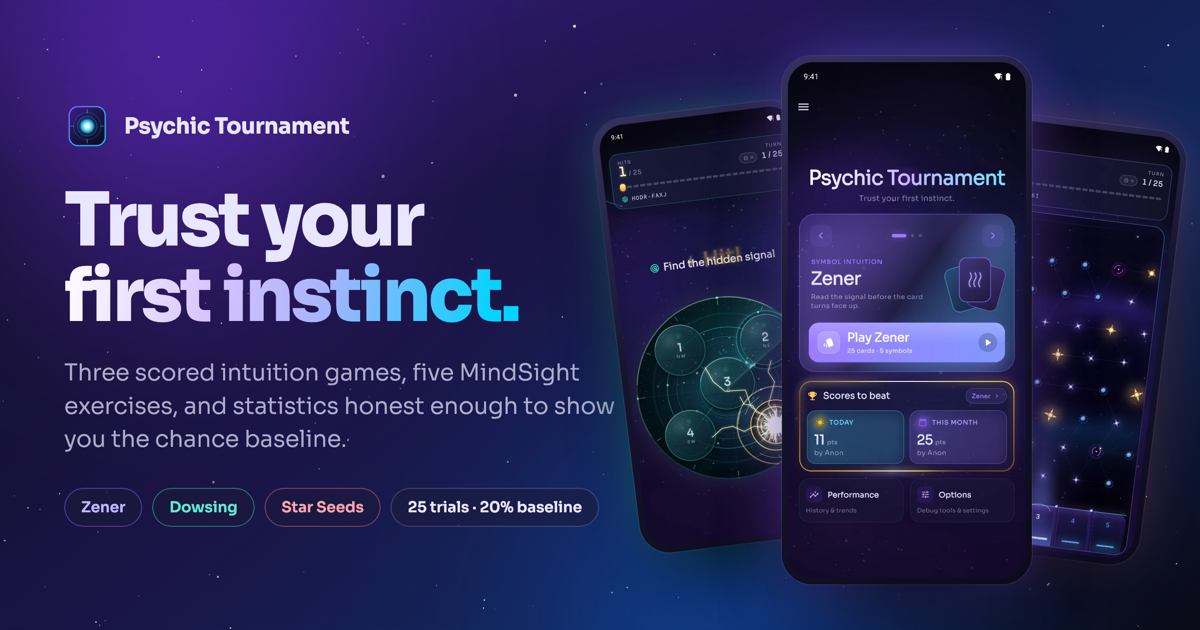
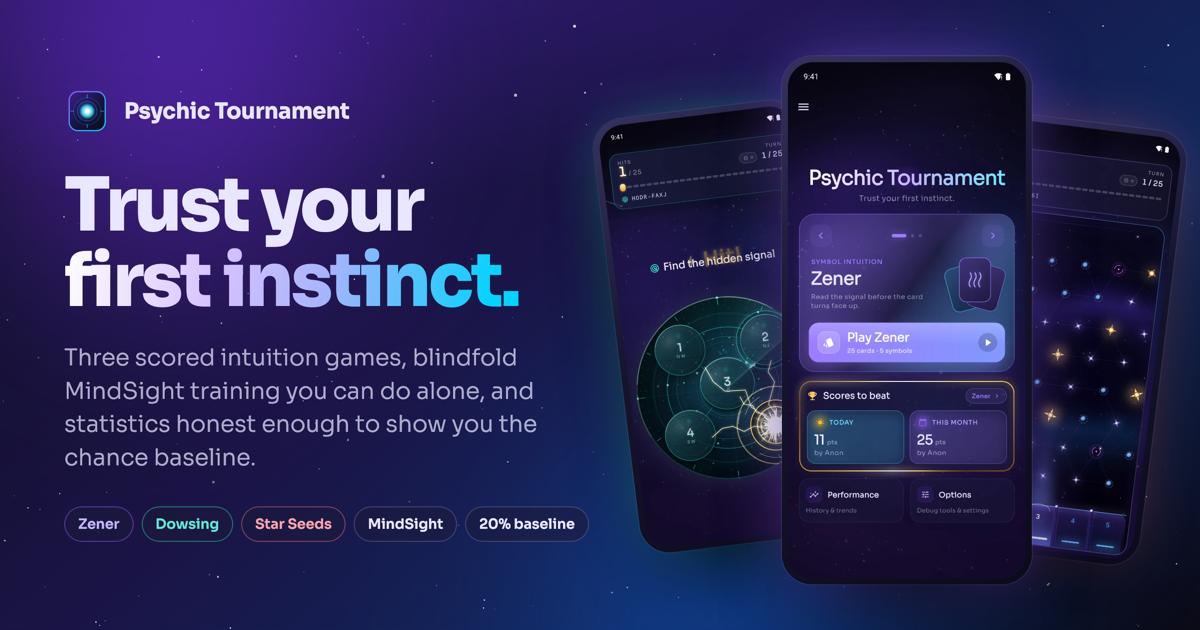
more on mindsight

diff --git a/index.html b/index.html
@@ -6,7 +6,7 @@
     <title>Psychic Tournament — Train your intuition. Trust your first instinct.</title>
     <meta
       name="description"
-      content="Three scored intuition games, five MindSight exercises, and statistics honest enough to tell you when you're only matching chance. A beautifully crafted, offline-first trainer for Android and iOS."
+      content="Three scored intuition games, blindfold MindSight training you can do alone, and statistics honest enough to tell you when you're only matching chance. A beautifully crafted, offline-first trainer for Android and iOS."
     />
     <meta name="theme-color" content="#0E0B1F" />
     <meta name="color-scheme" content="dark" />
@@ -20,7 +20,7 @@
     <meta property="og:title" content="Psychic Tournament — Trust your first instinct." />
     <meta
       property="og:description"
-      content="Three scored intuition games, five MindSight exercises, and statistics honest enough to tell you when you're only matching chance."
+      content="Three scored intuition games, blindfold MindSight training you can do alone, and statistics honest enough to tell you when you're only matching chance."
     />
     <meta property="og:image" content="https://psychictournament.online/imgs/og-cover.png" />
     <meta property="og:image:width" content="1200" />
@@ -29,7 +29,7 @@
     <meta name="twitter:title" content="Psychic Tournament — Trust your first instinct." />
     <meta
       name="twitter:description"
-      content="Three scored intuition games, five MindSight exercises, and statistics that show you the chance baseline."
+      content="Three scored intuition games, blindfold MindSight training you can do alone, and statistics that show you the chance baseline."
     />
     <meta name="twitter:image" content="https://psychictournament.online/imgs/og-cover.png" />
 
@@ -60,7 +60,7 @@
         "applicationCategory": "GameApplication",
         "operatingSystem": "Android, iOS",
         "url": "https://psychictournament.online/",
-        "description": "Three scored intuition games, five MindSight exercises, and local statistics measured against a 20% chance baseline.",
+        "description": "Three scored intuition games, blindfold MindSight training, and local statistics measured against a 20% chance baseline.",
         "author": { "@type": "Organization", "name": "OverNineThousand" },
         "offers": { "@type": "Offer", "price": "0", "priceCurrency": "USD" }
       }
@@ -125,7 +125,7 @@
           <div class="reveal">
             <span class="hero__tag">
               <b>v1.0</b>
-              Three games · Five MindSight exercises · Global boards
+              Three games · MindSight training · Global boards
             </span>
 
             <h1>
@@ -506,11 +506,12 @@
         <div class="shell">
           <div class="section-head section-head--center reveal">
             <span class="eyebrow">MindSight</span>
-            <h2>Training, <span class="grad">not tournament</span></h2>
+            <h2>Learn to see <span class="grad">with your intuition</span></h2>
             <p class="lede">
-              A separate set of immediate-response exercises for when you don't want a score
-              attached to everything. Short, quiet, and built around feedback you can feel
-              rather than read.
+              MindSight is a training practice built on an unusual premise: that perception
+              doesn't have to travel through the eyes. Practitioners work blindfolded until
+              what they call <em>Windows</em> begin to open — stretches of full sight with the
+              eyes still covered. It's a skill that's been getting a lot more attention lately.
             </p>
           </div>
 
@@ -528,35 +529,89 @@
             </div>
 
             <div class="row__text">
-              <div class="ms">
-                <div class="ms__item">
-                  <div class="ms__dot" style="background: linear-gradient(140deg, #ef4444, #3b82f6, #22c55e)"></div>
-                  <h4>Colour — Freeplay</h4>
-                  <p>A non-repeating colour sequence. Call it, tap, and the app tells you what it was.</p>
-                </div>
-                <div class="ms__item">
-                  <div class="ms__dot" style="background: linear-gradient(140deg, #8b5cf6, #f43f5e)"></div>
-                  <h4>Colour — Scored</h4>
-                  <p>Twenty-five push-to-talk attempts. Say the colour out loud; the session is saved and reviewed.</p>
-                  <span class="ms__tag">Voice · Scored</span>
-                </div>
-                <div class="ms__item">
-                  <div class="ms__dot" style="background: linear-gradient(140deg, #6b2dd9, #00d4ff)"></div>
-                  <h4>Shapes</h4>
-                  <p>The five Zener symbols, one at a time, with a distinct audio cue and haptic pulse for each.</p>
-                </div>
-                <div class="ms__item">
-                  <div class="ms__dot" style="background: linear-gradient(140deg, #1256c4, #a5b4fc)"></div>
-                  <h4>Reading</h4>
-                  <p>A random three-letter word. Reach for it before you look, then check yourself.</p>
-                </div>
-              </div>
-
-              <p style="margin-top: 26px; color: var(--ink-faint); font-size: 0.9rem; font-weight: 300">
-                Haptics carry real information here — one pulse or two, counted out, so you
-                can practise with the screen face down.
+              <h3>The hard part is <span class="grad">practising alone</span></h3>
+              <p>
+                Traditionally this training takes two people. One holds up a card; the other
+                sits blindfolded and calls it; the first one says whether it was right. No
+                partner, no practice — which is why most people who want to try it never
+                really get started.
               </p>
+              <p>
+                Psychic Tournament takes the second person's job. It chooses the target, waits
+                for your call, and tells you what it actually was — through sound and haptics,
+                so none of it needs your eyes. Blindfold on, phone in hand, practise as long
+                as you like.
+              </p>
+              <div class="pills">
+                <span class="pill"><svg viewBox="0 0 24 24" fill="none" stroke="currentColor" stroke-width="2" stroke-linecap="round" stroke-linejoin="round" aria-hidden="true"><path d="M2 12s3.5-6 10-6 10 6 10 6-3.5 6-10 6-10-6-10-6Z"/><path d="m4 4 16 16"/></svg>Blindfold-first</span>
+                <span class="pill"><svg viewBox="0 0 24 24" fill="none" stroke="currentColor" stroke-width="2" stroke-linecap="round" stroke-linejoin="round" aria-hidden="true"><path d="M4 12a8 8 0 0 1 16 0v6a2 2 0 0 1-2 2h-2v-7h4M6 20H4a2 2 0 0 1 0-4h2v4Z"/></svg>Spoken &amp; haptic feedback</span>
+                <span class="pill"><svg viewBox="0 0 24 24" fill="none" stroke="currentColor" stroke-width="2" stroke-linecap="round" stroke-linejoin="round" aria-hidden="true"><path d="M16 18v-1.5a4 4 0 0 0-4-4H6a4 4 0 0 0-4 4V18"/><circle cx="9" cy="6.5" r="3.5"/><path d="m17 8 2 2 4-4"/></svg>No partner needed</span>
+              </div>
             </div>
+          </div>
+
+          <div class="ms-modes reveal">
+            <article class="ms-mode ms-mode--rec">
+              <span class="ms-mode__badge">Recommended path</span>
+              <div class="ms-mode__ico">
+                <svg viewBox="0 0 24 24" fill="none" stroke="currentColor" stroke-width="1.7" stroke-linecap="round" stroke-linejoin="round" aria-hidden="true">
+                  <path d="M2 12s3.5-6 10-6 10 6 10 6-3.5 6-10 6-10-6-10-6Z" />
+                  <circle cx="12" cy="12" r="2.6" />
+                  <path d="m3.5 3.5 17 17" />
+                </svg>
+              </div>
+              <h3>Freeplay</h3>
+              <p class="ms-mode__lead">
+                Unscored, unhurried, and the best place to start. You call the target out loud
+                to yourself, tap, and the app tells you what it was.
+              </p>
+              <ol class="ms-steps">
+                <li>Put the blindfold on and open a Freeplay drill.</li>
+                <li>Let an impression form, and make your guess.</li>
+                <li>Tap anywhere on the screen.</li>
+                <li>The app announces the answer, so you know straight away whether your MindSight was accurate.</li>
+              </ol>
+              <ul class="ms-drills">
+                <li>
+                  <span class="ms-drills__dot" style="background: linear-gradient(140deg, #ef4444, #3b82f6, #22c55e)"></span>
+                  <span><b>Colours</b> — six, never twice in a row</span>
+                </li>
+                <li>
+                  <span class="ms-drills__dot" style="background: linear-gradient(140deg, #6b2dd9, #00d4ff)"></span>
+                  <span><b>Shapes</b> — the five Zener symbols</span>
+                </li>
+                <li>
+                  <span class="ms-drills__dot" style="background: linear-gradient(140deg, #1256c4, #a5b4fc)"></span>
+                  <span><b>Words</b> — a random three-letter word</span>
+                </li>
+              </ul>
+            </article>
+
+            <article class="ms-mode" style="--accent: #00d4ff">
+              <div class="ms-mode__ico">
+                <svg viewBox="0 0 24 24" fill="none" stroke="currentColor" stroke-width="1.7" stroke-linecap="round" stroke-linejoin="round" aria-hidden="true">
+                  <rect x="9" y="2.5" width="6" height="11" rx="3" />
+                  <path d="M5 11a7 7 0 0 0 14 0" />
+                  <path d="M12 18v3.5" />
+                </svg>
+              </div>
+              <h3>Scored</h3>
+              <p class="ms-mode__lead">
+                Same blindfold, same drill — but now you say it out loud and the app keeps the
+                book. For when you want to know whether you're actually improving.
+              </p>
+              <ol class="ms-steps">
+                <li>Press and hold anywhere on the screen.</li>
+                <li>Speak what your MindSight gives you.</li>
+                <li>Release, and get an immediate hit or miss.</li>
+                <li>Twenty-five attempts are scored and saved, so your progress is there to look back on.</li>
+              </ol>
+              <p class="ms-note">
+                Hits and misses come back as sound and vibration as well as on screen — one
+                pulse or two, counted out — so you can keep the blindfold on right through a
+                scored session and still know exactly how you're doing.
+              </p>
+            </article>
           </div>
         </div>
       </section>

diff --git a/style.css b/style.css
@@ -1326,56 +1326,167 @@ body.menu-open .nav__drawer {
 }
 
 /* --------------------------------------------------------------------------
-   MindSight strip
+   MindSight — the two practice modes
    -------------------------------------------------------------------------- */
 
-.ms {
+.ms-modes {
   display: grid;
-  gap: 18px;
-  grid-template-columns: repeat(auto-fit, minmax(190px, 1fr));
+  gap: 20px;
+  grid-template-columns: minmax(0, 1fr);
+  margin-top: clamp(42px, 5vw, 70px);
 }
 
-.ms__item {
-  padding: 22px 20px;
-  border-radius: var(--r);
+.ms-mode {
+  --accent: var(--violet-lt);
+  position: relative;
+  display: flex;
+  flex-direction: column;
+  padding: clamp(26px, 3vw, 38px);
+  border-radius: var(--r-xl);
   border: 1px solid var(--line);
-  background: rgba(17, 15, 35, 0.5);
-  transition: border-color 0.3s ease, transform 0.3s ease;
+  background: rgba(17, 15, 35, 0.55);
+  backdrop-filter: blur(12px);
+  -webkit-backdrop-filter: blur(12px);
+  transition: transform 0.35s cubic-bezier(0.2, 0.8, 0.3, 1), border-color 0.35s ease;
 }
 
-.ms__item:hover {
-  transform: translateY(-4px);
-  border-color: rgba(139, 92, 246, 0.45);
+.ms-mode:hover {
+  transform: translateY(-5px);
+  border-color: color-mix(in srgb, var(--accent) 50%, transparent);
 }
 
-.ms__dot {
-  width: 34px;
-  height: 34px;
-  border-radius: 11px;
-  margin-bottom: 14px;
-  border: 1px solid rgba(255, 255, 255, 0.16);
+/* the recommended path gets the gold treatment used for standout results in-app */
+.ms-mode--rec {
+  --accent: var(--gold);
+  border-color: rgba(255, 194, 75, 0.4);
+  background: linear-gradient(165deg, rgba(255, 194, 75, 0.08), transparent 48%),
+    rgba(17, 15, 35, 0.6);
+  box-shadow: 0 0 60px -32px rgba(255, 194, 75, 0.85);
 }
 
-.ms__item h4 {
-  font-size: 0.98rem;
+.ms-mode__badge {
+  position: absolute;
+  top: -11px;
+  left: clamp(26px, 3vw, 38px);
+  padding: 0.36em 0.85em;
+  border-radius: 999px;
+  font-size: 0.64rem;
+  font-weight: 700;
+  letter-spacing: 0.13em;
+  text-transform: uppercase;
+  color: #2a1a02;
+  background: linear-gradient(120deg, #ffd77a, var(--gold-deep));
+  box-shadow: 0 6px 18px -8px rgba(255, 194, 75, 0.9);
+}
+
+.ms-mode__ico {
+  width: 48px;
+  height: 48px;
+  border-radius: 14px;
+  display: grid;
+  place-items: center;
+  margin-bottom: 18px;
+  color: var(--accent);
+  background: color-mix(in srgb, var(--accent) 16%, transparent);
+  border: 1px solid color-mix(in srgb, var(--accent) 38%, transparent);
+}
+
+.ms-mode__ico svg {
+  width: 24px;
+  height: 24px;
+}
+
+.ms-mode h3 {
+  font-size: clamp(1.35rem, 2.2vw, 1.7rem);
   margin-bottom: 0.4em;
 }
 
-.ms__item p {
-  font-size: 0.84rem;
-  color: var(--ink-faint);
+.ms-mode__lead {
+  color: var(--ink-dim);
   font-weight: 300;
-  line-height: 1.5;
+  margin-bottom: 1.5em;
 }
 
-.ms__tag {
-  display: inline-block;
-  margin-top: 0.9em;
-  font-size: 0.66rem;
-  letter-spacing: 0.12em;
-  text-transform: uppercase;
+.ms-steps {
+  list-style: none;
+  display: grid;
+  gap: 0.9em;
+  margin-bottom: 1.6em;
+  counter-reset: ms-step;
+}
+
+.ms-steps li {
+  display: flex;
+  align-items: flex-start;
+  gap: 0.8em;
+  font-size: 0.92rem;
+  line-height: 1.5;
+  color: var(--ink-dim);
+}
+
+.ms-steps li::before {
+  counter-increment: ms-step;
+  content: counter(ms-step);
+  flex: none;
+  width: 25px;
+  height: 25px;
+  border-radius: 50%;
+  display: grid;
+  place-items: center;
+  font-size: 0.74rem;
   font-weight: 700;
-  color: var(--gold);
+  color: var(--accent);
+  background: color-mix(in srgb, var(--accent) 14%, transparent);
+  border: 1px solid color-mix(in srgb, var(--accent) 42%, transparent);
+}
+
+.ms-drills {
+  list-style: none;
+  display: grid;
+  gap: 0.7em;
+  margin-top: auto;
+  padding-top: 0.5em;
+}
+
+.ms-drills li {
+  display: flex;
+  align-items: flex-start;
+  gap: 0.75em;
+  font-size: 0.88rem;
+  line-height: 1.5;
+  color: var(--ink-faint);
+  font-weight: 300;
+}
+
+.ms-drills b {
+  color: var(--ink);
+  font-weight: 600;
+}
+
+.ms-drills__dot {
+  width: 24px;
+  height: 24px;
+  border-radius: 8px;
+  flex: none;
+  /* optically centre against the first line when the label wraps */
+  margin-top: 0.05em;
+  border: 1px solid rgba(255, 255, 255, 0.18);
+}
+
+.ms-note {
+  margin-top: 1.4em;
+  padding-top: 1.2em;
+  border-top: 1px solid var(--line);
+  font-size: 0.85rem;
+  color: var(--ink-faint);
+  font-weight: 300;
+  line-height: 1.55;
+}
+
+@media (min-width: 860px) {
+  .ms-modes {
+    grid-template-columns: repeat(2, minmax(0, 1fr));
+  }
 }
 
 /* --------------------------------------------------------------------------
